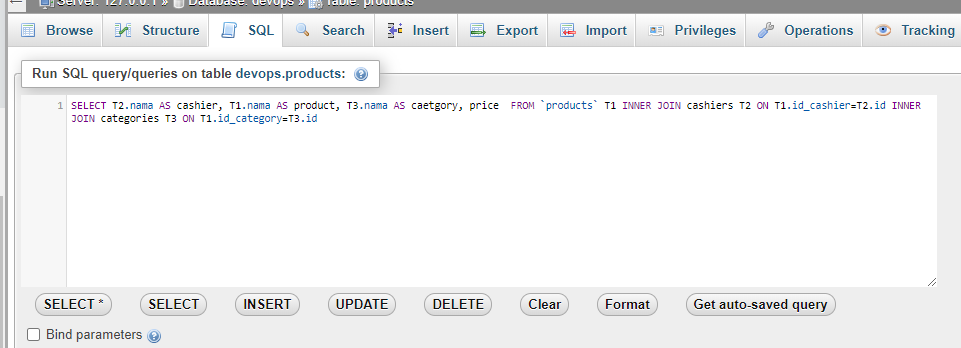
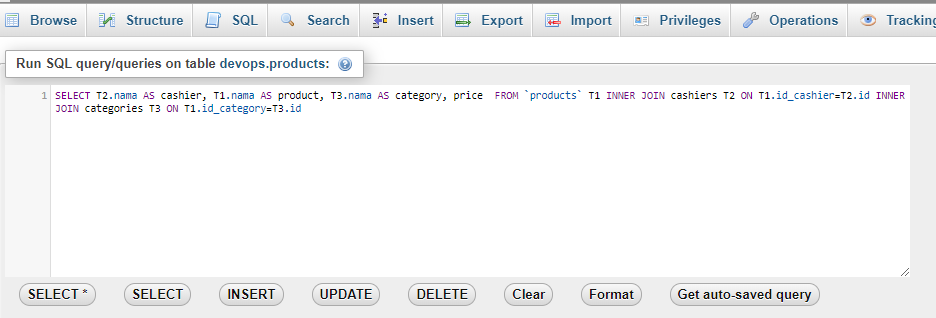
readme.md soal 3a dan laravel

diff --git a/Soal nomor 3/soal a/readme.md b/Soal nomor 3/soal a/readme.md
@@ -16,7 +16,7 @@ Soal
 
 Hasil :
 Query yang digunakan 
-"SELECT T2.nama AS cashier, T1.nama AS product, T3.nama AS caetgory, price  FROM `products` T1 INNER JOIN cashiers T2 ON T1.id_cashier=T2.id INNER JOIN categories T3 ON T1.id_category=T3.id"
+"SELECT T2.nama AS cashier, T1.nama AS product, T3.nama AS category, price  FROM `products` T1 INNER JOIN cashiers T2 ON T1.id_cashier=T2.id INNER JOIN categories T3 ON T1.id_category=T3.id"
 
 ![2020-06-06_18-02-55](assets/2020-06-06_18-02-55.png)
 
